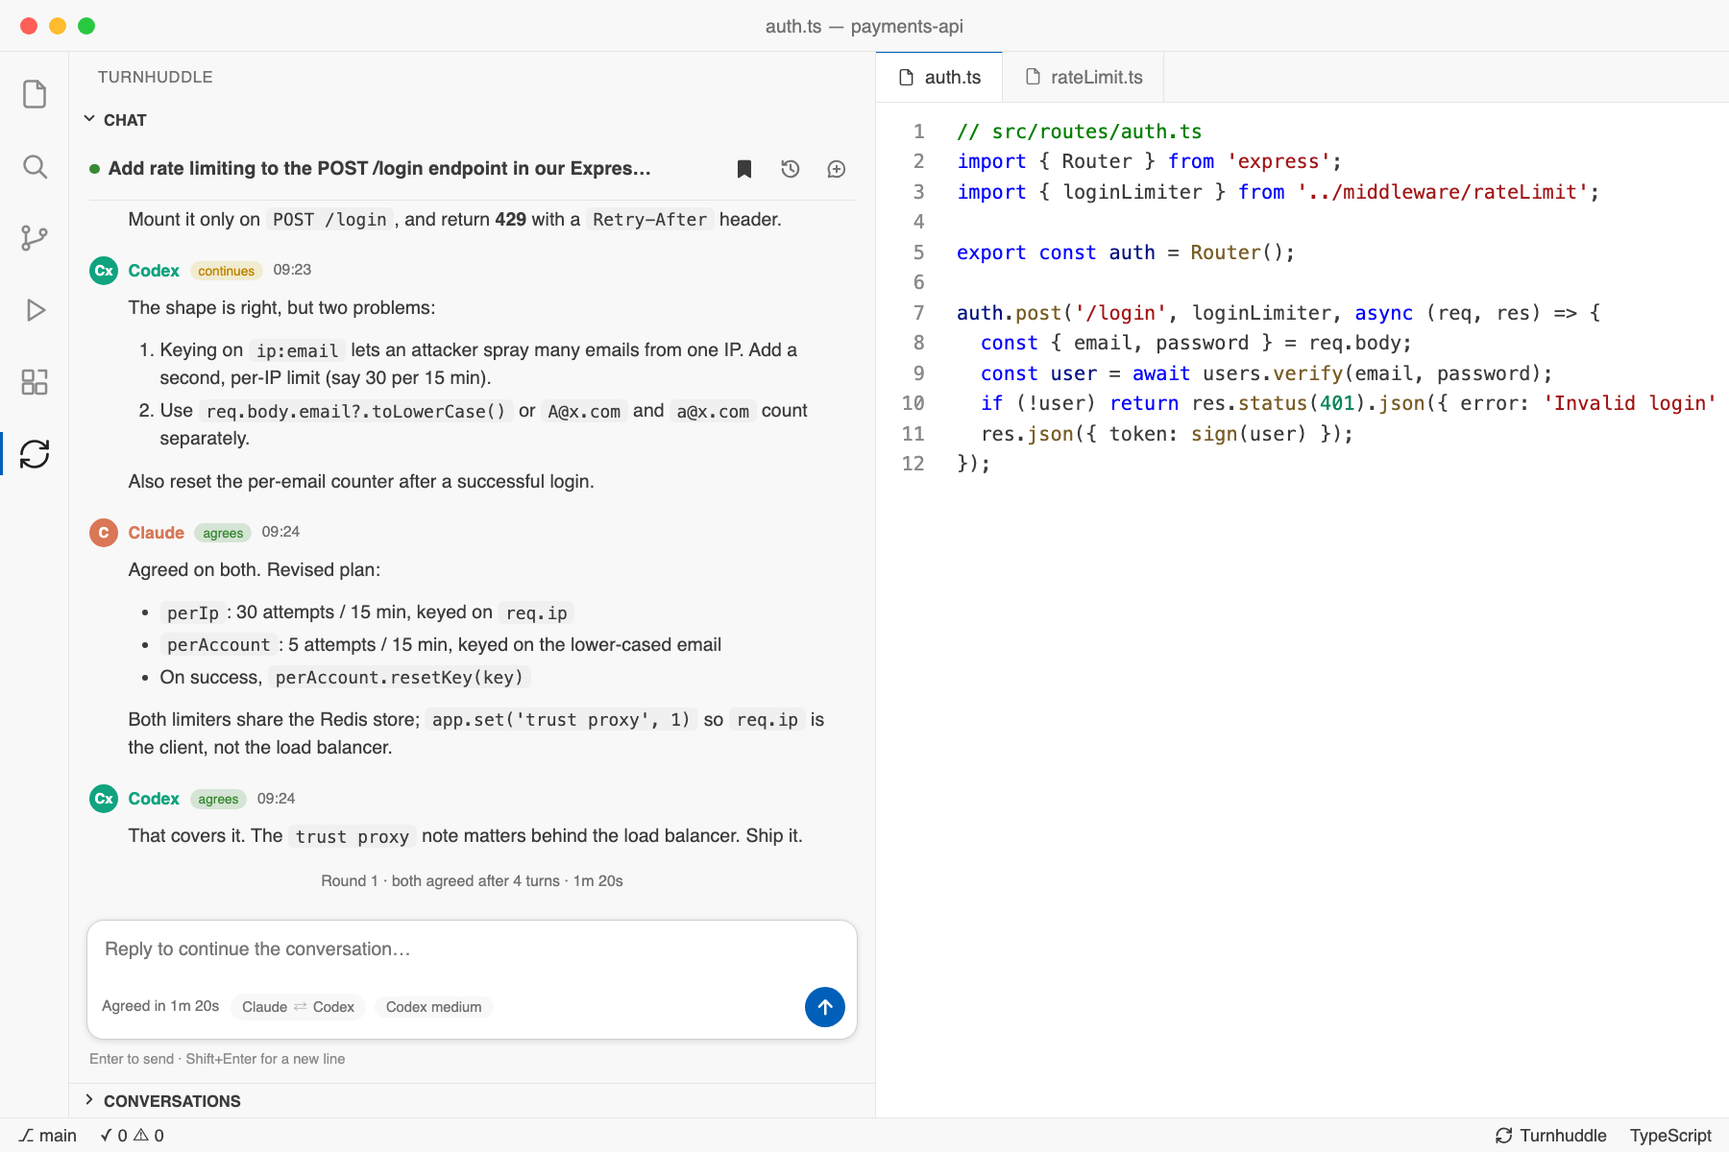
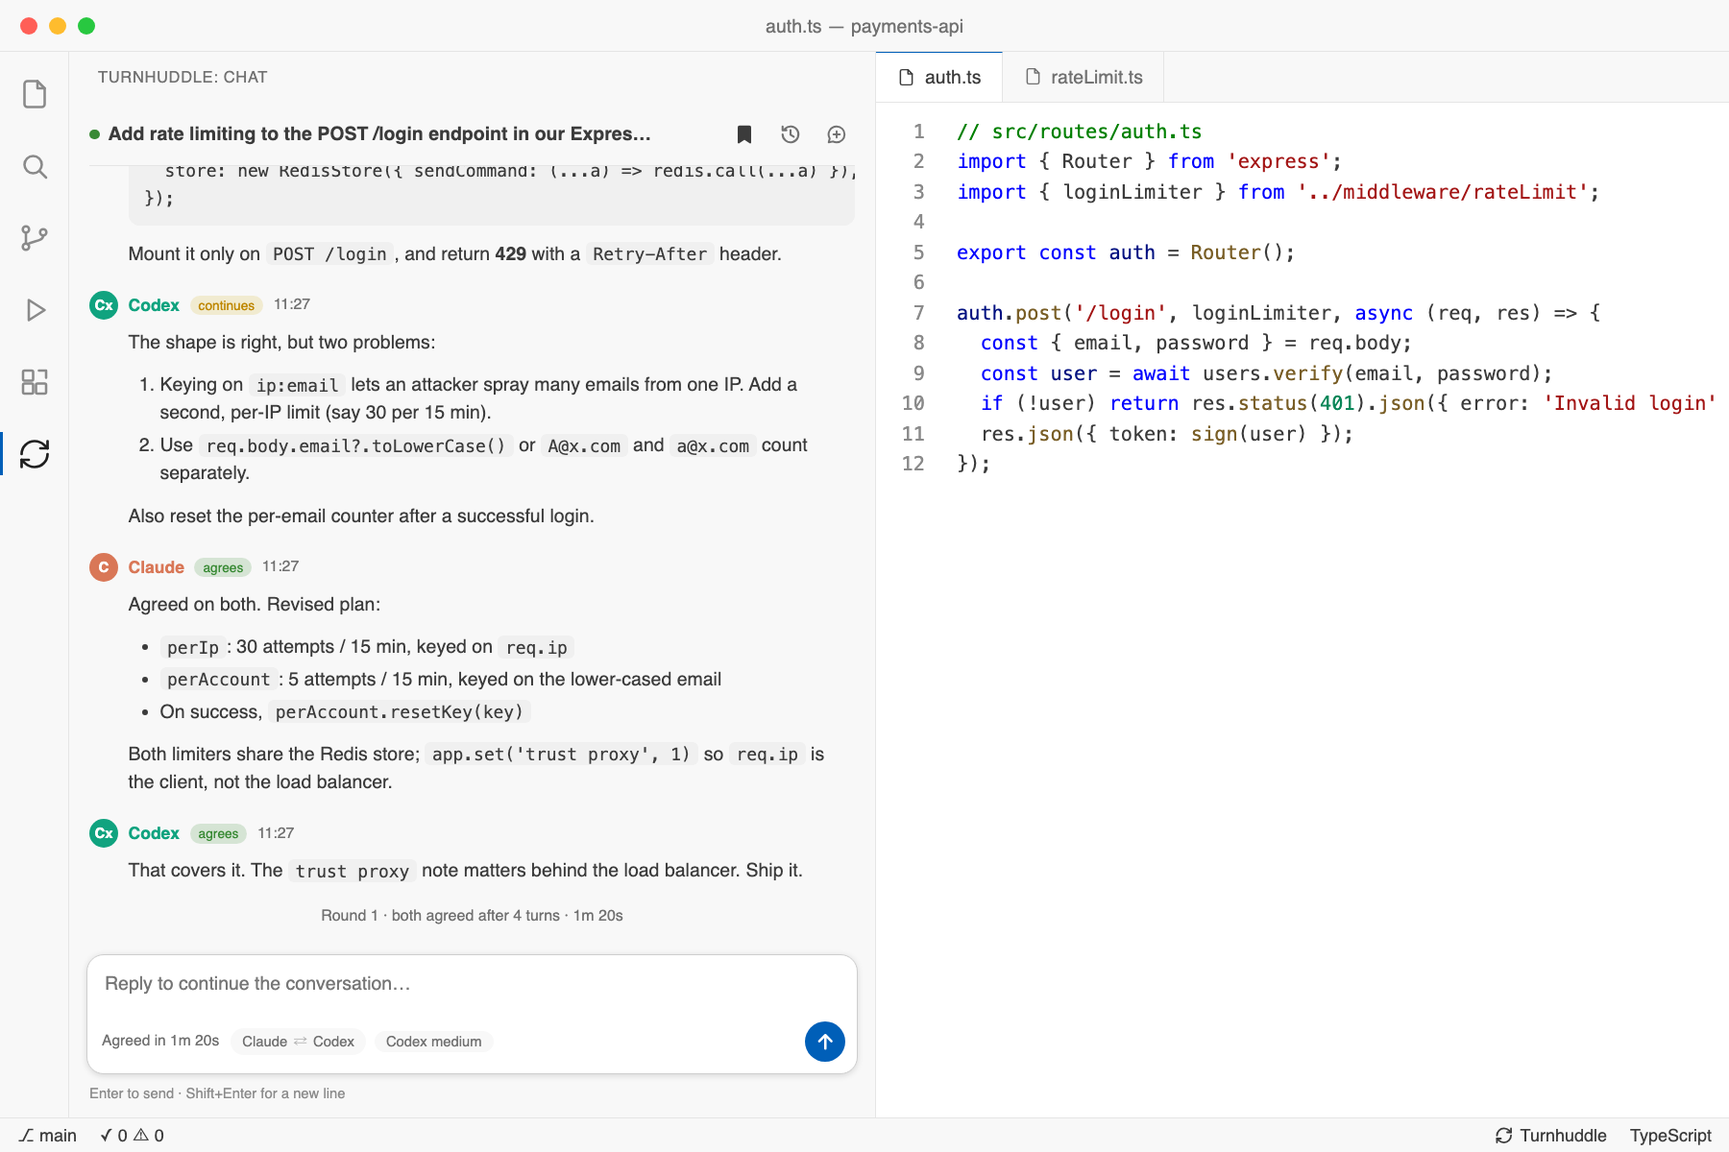
One chat window like Claude Code: history holds past conversations
- Remove the Conversations tree view (moved to artifacts/Safe to Delete)
- History quick pick: Bookmarked/Recent, per-row Bookmark and Archive
  buttons, Show archived to restore, Continue from a CLI session
- Drop duplicate New/Stop from the view title bar
- Screenshots and docs updated; prepare 0.2.6

diff --git a/src/extension.ts b/src/extension.ts
@@ -4,9 +4,8 @@ import { homedir } from 'node:os';
 import { randomUUID } from 'node:crypto';
 import { claudeAdapter, codexAdapter, ContextMode, Conversation, DEFAULT_MAX_TURNS, Effort, Message, relay, RoundMode, run, SessionOptions } from './bridge';
 import { ConversationState, finishConversation, MAX_TASK_CHARS, Origin, receiveMessage, receiveProgress, resumeConversation } from './conversationView';
-import { historyEntries, HistoryStore, SessionManager, SessionSummary, withAgentSession } from './sessions';
+import { conversationIdFrom, historyEntries, HistoryStore, SessionManager, SessionSummary, StoredConversation, withAgentSession } from './sessions';
 import { listVendorSessions, VendorSession } from './vendorSessions';
-import { conversationIdFrom, SessionsTreeProvider } from './sessionsTree';
 import { ConversationViewProvider } from './sidebar';
 import { checkDue, checkForUpdate, downloadVsix, Fetcher, UpdateCheck } from './updates';
 import { Agent, defaultExtensionRoots, locate, Located, loginShellLookup, SOURCE_LABELS } from './cliLocator';
@@ -38,9 +37,7 @@ export function activate(context: vscode.ExtensionContext): TurnhuddleApi {
   const loaded = sessions.load().then(count => { if (count) output.appendLine(`Loaded ${count} saved conversation${count === 1 ? '' : 's'} from ${historyDir}`); }, error => output.appendLine(`Could not load saved conversations: ${String(error)}`));
   const view = new ConversationViewProvider(sessions);
   view.register(context);
-  const tree = new SessionsTreeProvider(sessions, () => new Set(running.keys()));
-  tree.register(context);
-  const syncRunning = () => { void vscode.commands.executeCommand('setContext', 'turnhuddle.running', !!sessions.selectedId() && running.has(sessions.selectedId() as string)); tree.refresh(); };
+  const syncRunning = () => { void vscode.commands.executeCommand('setContext', 'turnhuddle.running', !!sessions.selectedId() && running.has(sessions.selectedId() as string)); };
   context.subscriptions.push({ dispose: sessions.subscribe(() => syncRunning()) });
   syncRunning();
   const settings = () => vscode.workspace.getConfiguration('turnhuddle');
@@ -184,7 +181,7 @@ export function activate(context: vscode.ExtensionContext): TurnhuddleApi {
     controller.abort();
     return true;
   });
-  /** Returns the panel to the welcome state. The conversation stays in the list; nothing is deleted. */
+  /** Returns the panel to the welcome state. The conversation stays in the history; nothing is deleted. */
   register('turnhuddle.clear', (): boolean => { sessions.select(undefined); return true; });
   register('turnhuddle.open', (argument?: unknown): boolean => {
     const id = conversationIdFrom(argument);
@@ -207,33 +204,72 @@ export function activate(context: vscode.ExtensionContext): TurnhuddleApi {
     sessions.setBookmarked(id, next);
     return next;
   });
-  /** Claude Code-style history: bookmarked, then recent conversations; pick one to open it. */
+  /** Claude Code-style history, the one place for past conversations: bookmarked first, then recent. Each row can be
+   * bookmarked or archived in place; "Show archived" lists archived conversations to restore. Picking a row opens it. */
   register('turnhuddle.history', async (): Promise<string | undefined> => {
     const age = (iso: string) => { const m = Math.round((Date.now() - Date.parse(iso)) / 60000); return m < 1 ? 'just now' : m < 60 ? `${m} min ago` : m < 1440 ? `${Math.round(m / 60)} h ago` : new Date(iso).toLocaleDateString(); };
-    type Item = vscode.QuickPickItem & { id?: string; action?: 'continue' };
-    const items: Item[] = historyEntries([...sessions.list(), ...sessions.archived()]).map(entry => {
-      if (entry.kind === 'separator') return { label: entry.label, kind: vscode.QuickPickItemKind.Separator };
-      const c = entry.conversation;
+    type Item = vscode.QuickPickItem & { id?: string; action?: 'continue' | 'archived' | 'back' };
+    const button = (icon: string, tooltip: string): vscode.QuickInputButton => ({ iconPath: new vscode.ThemeIcon(icon), tooltip });
+    const BOOKMARK = button('bookmark', 'Bookmark'), UNBOOKMARK = button('bookmark', 'Remove bookmark'), ARCHIVE = button('archive', 'Archive (kept on disk; restore from Show archived)'), RESTORE = button('history', 'Restore');
+    const describe = (c: StoredConversation) => {
       const roundCount = c.messages.filter(m => m.role === 'user').length;
       const state = running.has(c.id) ? 'running' : c.outcome?.kind === 'agreed' ? 'agreed' : c.outcome?.kind === 'limit' ? 'no agreement' : c.status;
-      const title = c.task.replace(/\s+/g, ' ').trim();
-      return { id: c.id, label: `$(${c.bookmarked ? 'bookmark' : 'comment-discussion'}) ${title.length > 72 ? `${title.slice(0, 71)}…` : title}`, detail: [age(c.updatedAt), `${roundCount} round${roundCount === 1 ? '' : 's'}`, state, c.origin ? `from ${c.origin.provider === 'claude' ? 'Claude Code' : 'Codex'}` : ''].filter(Boolean).join(' · '), picked: c.id === sessions.selectedId() };
+      return [age(c.updatedAt), `${roundCount} round${roundCount === 1 ? '' : 's'}`, state, c.origin ? `from ${c.origin.provider === 'claude' ? 'Claude Code' : 'Codex'}` : ''].filter(Boolean).join(' · ');
+    };
+    const label = (c: StoredConversation) => { const t = c.task.replace(/\s+/g, ' ').trim(); return `$(${c.archived ? 'archive' : c.bookmarked ? 'bookmark' : 'comment-discussion'}) ${t.length > 72 ? `${t.slice(0, 71)}…` : t}`; };
+    const pick = vscode.window.createQuickPick<Item>();
+    pick.title = 'Conversation history'; pick.matchOnDetail = true;
+    let showArchived = false;
+    const build = () => {
+      const items: Item[] = [];
+      if (showArchived) {
+        items.push({ label: '$(arrow-left) Back to conversations', action: 'back', alwaysShow: true }, { label: 'Archived', kind: vscode.QuickPickItemKind.Separator });
+        for (const c of sessions.archived()) items.push({ id: c.id, label: label(c), detail: describe(c), buttons: [RESTORE] });
+        pick.placeholder = sessions.archived().length ? 'Search archived conversations' : 'No archived conversations';
+      } else {
+        for (const entry of historyEntries(sessions.list())) {
+          if (entry.kind === 'separator') { items.push({ label: entry.label, kind: vscode.QuickPickItemKind.Separator }); continue; }
+          const c = entry.conversation;
+          items.push({ id: c.id, label: label(c), detail: describe(c), buttons: running.has(c.id) ? [c.bookmarked ? UNBOOKMARK : BOOKMARK] : [c.bookmarked ? UNBOOKMARK : BOOKMARK, ARCHIVE] });
+        }
+        items.push({ label: '', kind: vscode.QuickPickItemKind.Separator }, { label: '$(debug-continue) Continue from a Claude Code or Codex session…', action: 'continue', alwaysShow: true });
+        const archivedCount = sessions.archived().length;
+        if (archivedCount) items.push({ label: `$(archive) Show archived (${archivedCount})`, action: 'archived', alwaysShow: true });
+        pick.placeholder = sessions.list().length ? 'Search conversations' : 'No conversations yet';
+      }
+      pick.items = items;
+      const current = items.find(i => i.id && i.id === sessions.selectedId());
+      if (current) pick.activeItems = [current];
+    };
+    build();
+    return await new Promise<string | undefined>(resolve => {
+      let chosen: string | undefined;
+      pick.onDidTriggerItemButton(({ item, button: pressed }) => {
+        if (!item.id) return;
+        if (pressed === BOOKMARK || pressed === UNBOOKMARK) sessions.setBookmarked(item.id, pressed === BOOKMARK);
+        else if (pressed === ARCHIVE) sessions.setArchived(item.id, true);
+        else if (pressed === RESTORE) sessions.setArchived(item.id, false);
+        build();
+      });
+      pick.onDidAccept(() => {
+        const item = pick.selectedItems[0];
+        if (!item) return;
+        if (item.action === 'archived' || item.action === 'back') { showArchived = item.action === 'archived'; pick.value = ''; build(); return; }
+        if (item.action === 'continue') { pick.hide(); void vscode.commands.executeCommand('turnhuddle.continueFrom'); return; }
+        if (item.id) { if (showArchived) sessions.setArchived(item.id, false); sessions.select(item.id); chosen = item.id; void view.reveal(); pick.hide(); }
+      });
+      pick.onDidHide(() => { pick.dispose(); resolve(chosen); });
+      pick.show();
     });
-    items.push({ label: '', kind: vscode.QuickPickItemKind.Separator }, { label: '$(debug-continue) Continue from a Claude Code or Codex session…', action: 'continue', alwaysShow: true });
-    const picked = await vscode.window.showQuickPick(items, { title: 'Conversation history', placeHolder: sessions.list().length ? 'Search conversations' : 'No conversations yet', matchOnDetail: true });
-    if (!picked) return undefined;
-    if (picked.action === 'continue') { void vscode.commands.executeCommand('turnhuddle.continueFrom'); return undefined; }
-    if (picked.id) { sessions.select(picked.id); void view.reveal(); }
-    return picked.id;
   });
   register('turnhuddle.restore', (argument?: unknown): boolean => { const id = conversationIdFrom(argument); return !!id && sessions.setArchived(id, false); });
-  register('turnhuddle.refreshSessions', async (): Promise<number> => { await loaded; const count = await sessions.load(); tree.refresh(); return count; });
+  register('turnhuddle.refreshSessions', async (): Promise<number> => { await loaded; return sessions.load(); });
   register('turnhuddle.revealHistory', async (): Promise<string> => {
     await vscode.workspace.fs.createDirectory(vscode.Uri.file(historyDir));
     await vscode.commands.executeCommand('revealFileInOS', vscode.Uri.file(historyDir));
     return historyDir;
   });
-  /** Always starts a new conversation; the current one stays in the list. */
+  /** Always starts a new conversation; the current one stays in the history. */
   register('turnhuddle.start', (options?: unknown): Promise<StartResult> => {
     const o = (options ?? {}) as StartOptions;
     const preset = typeof o.task === 'string' && o.task.trim() ? o.task : undefined;

diff --git a/site/index.html b/site/index.html
@@ -184,12 +184,12 @@
         <div>
           <div class="kicker">Conversations</div>
           <h2>Pick up exactly where you left off.</h2>
-          <p class="sub" style="margin-bottom:0">Your conversations, and the ones you started in the CLIs, are one click away.</p>
+          <p class="sub" style="margin-bottom:0">One chat window, like Claude Code. Your past conversations, and the ones you started in the CLIs, are one click away in the history.</p>
           <ul class="ticks">
             <li><span><b>Bookmarks and history, like Claude Code.</b> Bookmark a conversation from the chat header; the clock opens your history with bookmarked ones first.</span></li>
             <li><span><b>Continue from Claude Code or Codex.</b> Choose a saved CLI session for this folder. Claude's is forked, so your original session stays untouched.</span></li>
             <li><span><b>Several at once.</b> Start a new conversation while another is still running and switch between them.</span></li>
-            <li><span><b>Nothing is deleted.</b> Archive moves a conversation aside; the file stays until you remove it yourself.</span></li>
+            <li><span><b>Nothing is deleted.</b> Archive a conversation from the history; it stays on disk and can be restored.</span></li>
           </ul>
         </div>
         <div class="shot small">
@@ -229,7 +229,7 @@
             <tbody>
               <tr><td><i class="mk c">C</i>Claude Code CLI</td><td data-l="Version">Recent release, signed in</td><td data-l="How Turnhuddle uses it">Plan mode, streaming output, <code>--resume</code> for continued sessions</td><td data-l="Status"><span class="tag ok">Required</span></td></tr>
               <tr><td><i class="mk x">Cx</i>Codex CLI</td><td data-l="Version">Recent release, signed in</td><td data-l="How Turnhuddle uses it">Read-only sandbox, JSON output, <code>exec resume</code> for continued sessions</td><td data-l="Status"><span class="tag ok">Required</span></td></tr>
-              <tr><td><i class="mk v">VS</i>Visual Studio Code</td><td data-l="Version">1.95 or later</td><td data-l="How Turnhuddle uses it">Chat panel, Conversations view, Output channel</td><td data-l="Status"><span class="tag ok">Required</span></td></tr>
+              <tr><td><i class="mk v">VS</i>Visual Studio Code</td><td data-l="Version">1.95 or later</td><td data-l="How Turnhuddle uses it">Chat panel and Output channel</td><td data-l="Status"><span class="tag ok">Required</span></td></tr>
               <tr><td>Operating system</td><td data-l="Version">macOS</td><td data-l="How Turnhuddle uses it">Tested on macOS. Windows and Linux should work but aren't verified yet.</td><td data-l="Status"><span class="tag beta">macOS tested</span></td></tr>
             </tbody>
           </table>

diff --git a/src/conversationView.ts b/src/conversationView.ts
@@ -165,7 +165,7 @@ export function renderMeta(state: ConversationState): RenderMeta {
 }
 /** HTML fragment for the chat area (header, thread, notices). The composer lives in the static page, outside this fragment. */
 export function renderConversation(state: ConversationState, logos: Logos = {}): string {
-  if (state.status === 'idle') return `${renderHeader(state)}<section class="welcome"><div class="welcome-marks">${avatar('claude', logos)}${avatar('codex', logos)}</div><h1>Claude ↔ Codex</h1><p>Describe a task below. Claude proposes an approach, Codex reviews it, then Claude answers the critique. Reply to run another round on the same conversation.</p><p class="fine">Conversations are saved on this machine and listed under Conversations above; several can run at once. The full text also goes to the Turnhuddle Output channel. CLI usage may incur charges.</p></section>`;
+  if (state.status === 'idle') return `${renderHeader(state)}<section class="welcome"><div class="welcome-marks">${avatar('claude', logos)}${avatar('codex', logos)}</div><h1>Claude ↔ Codex</h1><p>Describe a task below. Claude proposes an approach, Codex reviews it, then Claude answers the critique. Reply to run another round on the same conversation.</p><p class="fine">Conversations are saved on this machine; open them from the history (the clock above). Several can run at once. The full text also goes to the Turnhuddle Output channel. CLI usage may incur charges.</p></section>`;
   const running = state.status === 'running';
   const user = (content: string, time: string) => `<article class="msg msg-user"><div class="msg-meta"><time datetime="${escapeHtml(time)}">${formatTime(time)}</time></div><div class="user-card"><div class="content">${renderMarkdown(content)}</div></div></article>`;
   const verdictTag = (verdict?: Verdict) => verdict ? `<span class="verdict verdict-${verdict}" title="${verdict === 'agree' ? 'Considers the current recommendation final' : 'Wants further changes'}">${verdict === 'agree' ? 'agrees' : 'continues'}</span>` : '';

diff --git a/src/sessions.ts b/src/sessions.ts
@@ -176,3 +176,14 @@ export function historyEntries(conversations: StoredConversation[]): HistoryEntr
   if (rest.length) out.push({ kind: 'separator', label: 'Recent' }, ...rest.map(conversation => ({ kind: 'conversation', conversation }) as HistoryEntry));
   return out;
 }
+
+/** Conversation id from a command argument: an id string, or an object carrying `id` or `conversation.id`. */
+export function conversationIdFrom(argument: unknown): string | undefined {
+  if (typeof argument === 'string') return argument;
+  if (argument && typeof argument === 'object') {
+    const a = argument as { id?: unknown; conversation?: { id?: unknown } };
+    if (typeof a.id === 'string') return a.id;
+    if (a.conversation && typeof a.conversation.id === 'string') return a.conversation.id;
+  }
+  return undefined;
+}

diff --git a/docs/DEVELOPMENT.md b/docs/DEVELOPMENT.md
@@ -20,15 +20,15 @@ The composer's toolbar shows the round and its elapsed time while running, which
 
 ### Conversations and history
 
-Every conversation is saved on this machine as one JSON file under VS Code's global storage for the extension (`…/globalStorage/turnhuddle.turnhuddle/conversations/`; **Turnhuddle: Reveal History Folder** opens it). The **Conversations** list above the chat shows them newest first with their state, round count and age; click one to open it in the chat and reply to it. Conversations survive window reloads; one that was still running when the window closed is shown as failed, and a reply continues from the messages that did arrive. The clock icon in the chat's title row focuses the list.
+Every conversation is saved on this machine as one JSON file under VS Code's global storage for the extension (`…/globalStorage/turnhuddle.turnhuddle/conversations/`; **Turnhuddle: Reveal History Folder** opens it). The history (the clock in the chat header, or **Turnhuddle: Conversation History**) lists them, bookmarked first, then newest first, with their state, round count and age; pick one to open it in the chat and reply to it. Each row has bookmark and archive buttons, and *Show archived* lists archived conversations to restore. Conversations survive window reloads; one that was still running when the window closed is shown as failed, and a reply continues from the messages that did arrive. 
 
 #### Continue from an existing CLI session
 
-**Turnhuddle: Continue from a Claude Code or Codex Session** (also the ▶ icon in the Conversations list) shows the sessions the two CLIs have saved on this machine for the open folder (toggle to all folders), newest first with each session's title or first prompt. Pick one, type the first message, and a Turnhuddle conversation starts in which that agent keeps the full context of its session while the other joins as reviewer. Claude's session is forked, so the original is left untouched and the fork accumulates the Turnhuddle turns; a Codex thread is continued in place, so Turnhuddle's turns are appended to it. In a continued conversation the agent with a session receives only the new messages each turn instead of a replay; the other agent still gets the full Turnhuddle history. The title row shows "from Claude" or "from Codex" with the source session in its tooltip.
+**Turnhuddle: Continue from a Claude Code or Codex Session** (also at the end of the history list) shows the sessions the two CLIs have saved on this machine for the open folder (toggle to all folders), newest first with each session's title or first prompt. Pick one, type the first message, and a Turnhuddle conversation starts in which that agent keeps the full context of its session while the other joins as reviewer. Claude's session is forked, so the original is left untouched and the fork accumulates the Turnhuddle turns; a Codex thread is continued in place, so Turnhuddle's turns are appended to it. In a continued conversation the agent with a session receives only the new messages each turn instead of a replay; the other agent still gets the full Turnhuddle history. The title row shows "from Claude" or "from Codex" with the source session in its tooltip.
 
 This reads the CLIs' own transcript files under `~/.claude/projects/` and `~/.codex/sessions/` (read-only; the formats are undocumented and may change with CLI updates) and uses `claude --resume --fork-session` and `codex exec resume`, so it works only for sessions recorded on this machine with the same accounts. A resumed Codex thread keeps the sandbox policy it was recorded with.
 
-Several conversations can run at once: start another with the `+` button or **Turnhuddle: Start Claude ↔ Codex Conversation** while one is running, and switch between them in the list; each runs one round at a time, and Stop applies to the conversation shown. Nothing is ever deleted by the extension: **Archive** moves a conversation into an "Archived (safe to delete)" group, **Restore** brings it back, and the files stay on disk for you to review and remove yourself. The Output channel still receives every message as before; it is raised when a conversation is started from the Command Palette and left where it is when started from the panel.
+Several conversations can run at once: start another with the `+` button or **Turnhuddle: Start Claude ↔ Codex Conversation** while one is running, and switch between them in the history; each runs one round at a time, and Stop applies to the conversation shown. Nothing is ever deleted by the extension: **Archive** (a button on each history row) moves a conversation into *Show archived*, **Restore** brings it back, and the files stay on disk for you to review and remove yourself. The Output channel still receives every message as before; it is raised when a conversation is started from the Command Palette and left where it is when started from the panel.
 
 Official Claude and Codex logos are not included: they are Anthropic's and OpenAI's trademarks, so check their brand guidelines before redistributing them. The built-in avatars are initials in brand-like colours. To show the official marks, put `claude.svg` and `codex.svg` into `media/logos/` of the installed extension (or of this folder when running from F5) and reopen the panel; see `media/logos/README.txt`.
 

diff --git a/CHANGELOG.md b/CHANGELOG.md
@@ -2,6 +2,12 @@
 
 All notable changes to Turnhuddle are listed here. Versions follow [Semantic Versioning](https://semver.org/).
 
+## 0.2.6 — 2026-11-26
+
+### Changed
+- A single chat window, like Claude Code: the Conversations view is removed and past conversations live in the history (the clock), with Bookmark and Archive buttons on each row and Show archived to restore.
+- The view title bar no longer repeats the New and Stop actions.
+
 ## 0.2.5 — 2026-11-26
 
 ### Fixed
